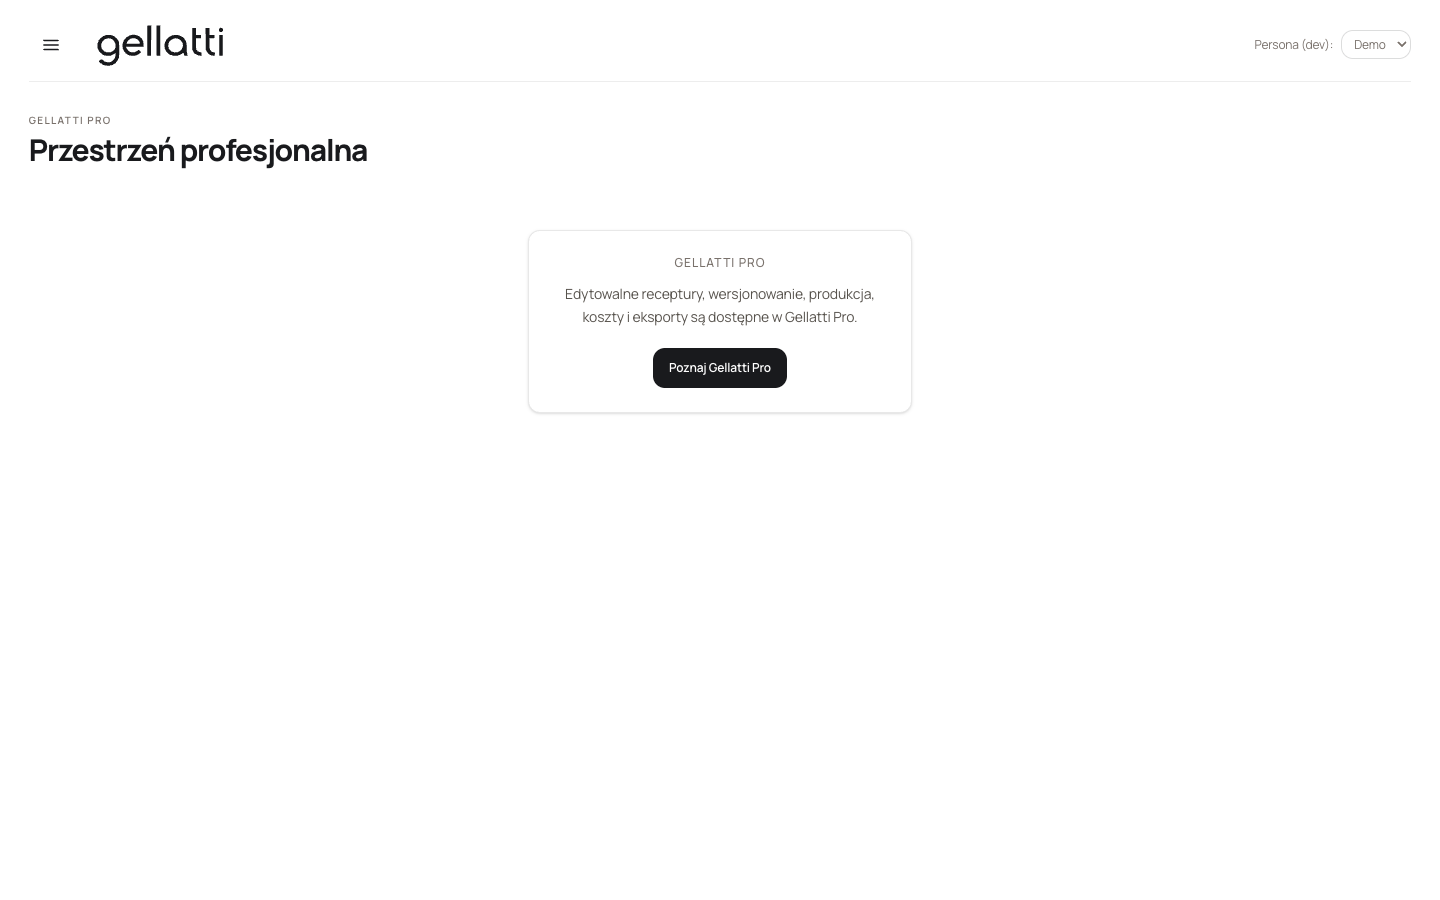
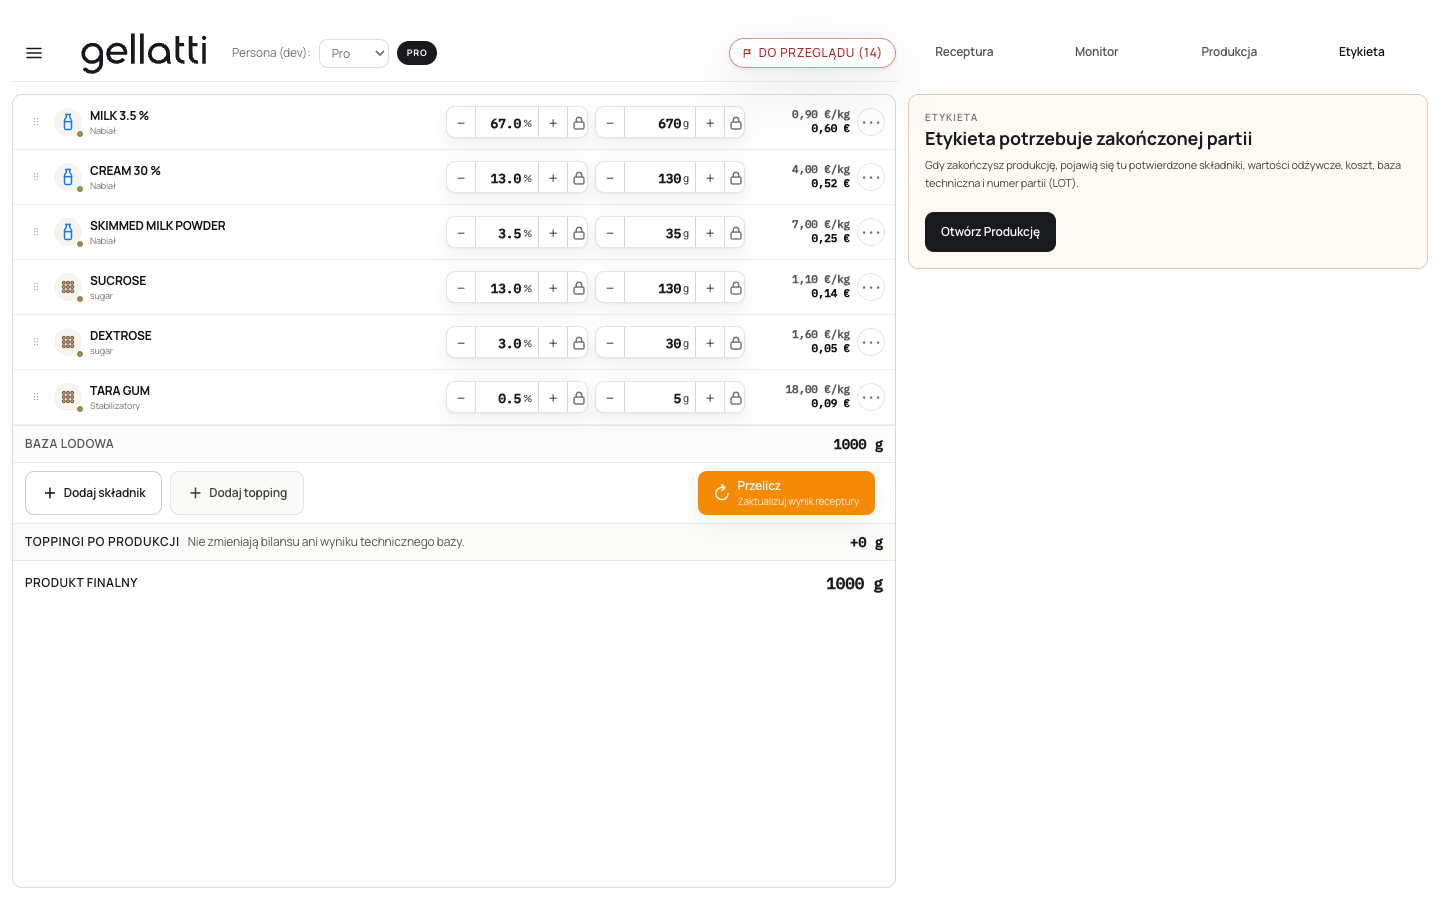
docs(report): correct the PRO scores — the earlier pass photographed the gate
The PRO numbers in the first scorecard were not measuring what they claimed.
Navigating to each PRO route with a full page load dropped the dev persona (it
lives in a Zustand store with no persistence), so every capture recorded the
"Przestrzen profesjonalna" ENTITLEMENT GATE instead of the workbench — and
still scored 92-94 % against a mostly-white authority frame on white-space
agreement alone.

Re-measured with the persona set once and each module reached by clicking its
tab, so the workbench is genuinely on screen:

  Receptura   88.4 / ink 95.0 desktop   87.1 / ink 91.9 mobile
  Monitor     89.0 / ink 95.8           83.4 / ink 91.6
  Produkcja   88.6 / ink 93.5           83.2 / ink 88.1
  Etykieta    91.9 / ink 96.5           87.6 / ink 91.4

The approved mobile architecture is confirmed intact per §19-27. The final
completed-batch label is recorded as PENDING_DATA — it needs a finished
production run the stale demo preset cannot produce.

diff --git a/reports/v21-visual-proof/README.md b/reports/v21-visual-proof/README.md
@@ -59,7 +59,11 @@ A real legibility defect was fixed on the way: the graphite hero's call to actio
 | Produkty | 95.0 → **95.1** | 84.8 → **85.2** |
 | Ustawienia etykiety | 93.9 → 93.8 | 79.5 → **80.6** ³ |
 | Ustawienia maszyny | 95.1 → **95.4** | 84.4 → **87.6** |
-| PRO Receptura / Monitor / Produkcja / Etykieta ×2 | 92.2–94.2, unchanged | 86.3–91.0, unchanged |
+| PRO Receptura | **88.4** (ink 95.0) ⁴ | **87.1** (ink 91.9) ⁴ |
+| PRO Monitor | **89.0** (ink 95.8) ⁴ | **83.4** (ink 91.6) ⁴ |
+| PRO Produkcja | **88.6** (ink 93.5) ⁴ | **83.2** (ink 88.1) ⁴ |
+| PRO Etykieta — before production | **91.9** (ink 96.5) ⁴ | **87.6** (ink 91.4) ⁴ |
+| PRO Etykieta — final label | PENDING_DATA ⁵ | PENDING_DATA ⁵ |
 
 ¹ The Sklep catalogue cannot load in this local environment — the page renders
 "Nie udało się wczytać sklepu." The hero itself measures correctly at both viewports; the
@@ -76,8 +80,6 @@ same content as a MODAL sheet opened from `/labels`, with six jurisdictions (Kan
 Australia / Nowa Zelandia added). Page-vs-modal is an architecture difference, not a visual
 one, so it is recorded rather than silently converted — see OPEN below.
 
-## Open
-
 1. **Ustawienia etykiety: page vs modal.** Needs an owner decision — keep staging's modal
    (and dress it in the approved tokens), or promote it to the authority's full page.
 2. **Sklep catalogue data** unavailable locally; blocks the mobile Sklep number only.
@@ -85,6 +87,25 @@ one, so it is recorded rather than silently converted — see OPEN below.
    stale and `Przelicz` cannot complete, so Monitor renders skeleton bars. §16 (7 rows, one
    Score) and §17 (`0/6` with no invented Score) can only be closed on served staging with
    the TEST PRO session.
+⁴ **Corrected measurement.** An earlier pass navigated to each PRO route with a full page
+load. The dev persona lives in a Zustand store with no persistence, so every reload dropped
+back to `Demo` and the capture recorded the "Przestrzeń profesjonalna" ENTITLEMENT GATE
+rather than the workbench — against a mostly-white authority frame that still scored 92–94 %
+on white-space agreement alone. The numbers above are re-measured with the persona set once
+and every module reached by clicking its tab, so the workbench is actually on screen. The
+mobile architecture is confirmed intact per §19–27: compact ingredient list, BAZA LODOWA,
+TOPPINGI PO PRODUKCJI, PRODUKT FINALNY and the bottom module bar.
+
+⁵ The authority's `label/final-ready` is the label of a COMPLETED batch. Reaching it needs a
+finished production run, which the stale local demo preset cannot produce — same root cause as
+the Monitor/Produkcja blocker. Recorded as PENDING_DATA rather than scored against the
+before-production state it is not.
+
+The lesson generalises: on this app a screenshot is only evidence once you have checked that
+the state you meant to photograph is the state on screen.
+
+## Open
+
 4. ~~PRO Workbench Master at 82.5 %~~ — **closed, not a gap.** `?pro=master&state=master` is
    a DOCUMENTATION view of the pack itself ("Gellatti V2.1 across the complete working loop",
    four cards linking to the modules, a frozen-function panel). It has no app counterpart, in
